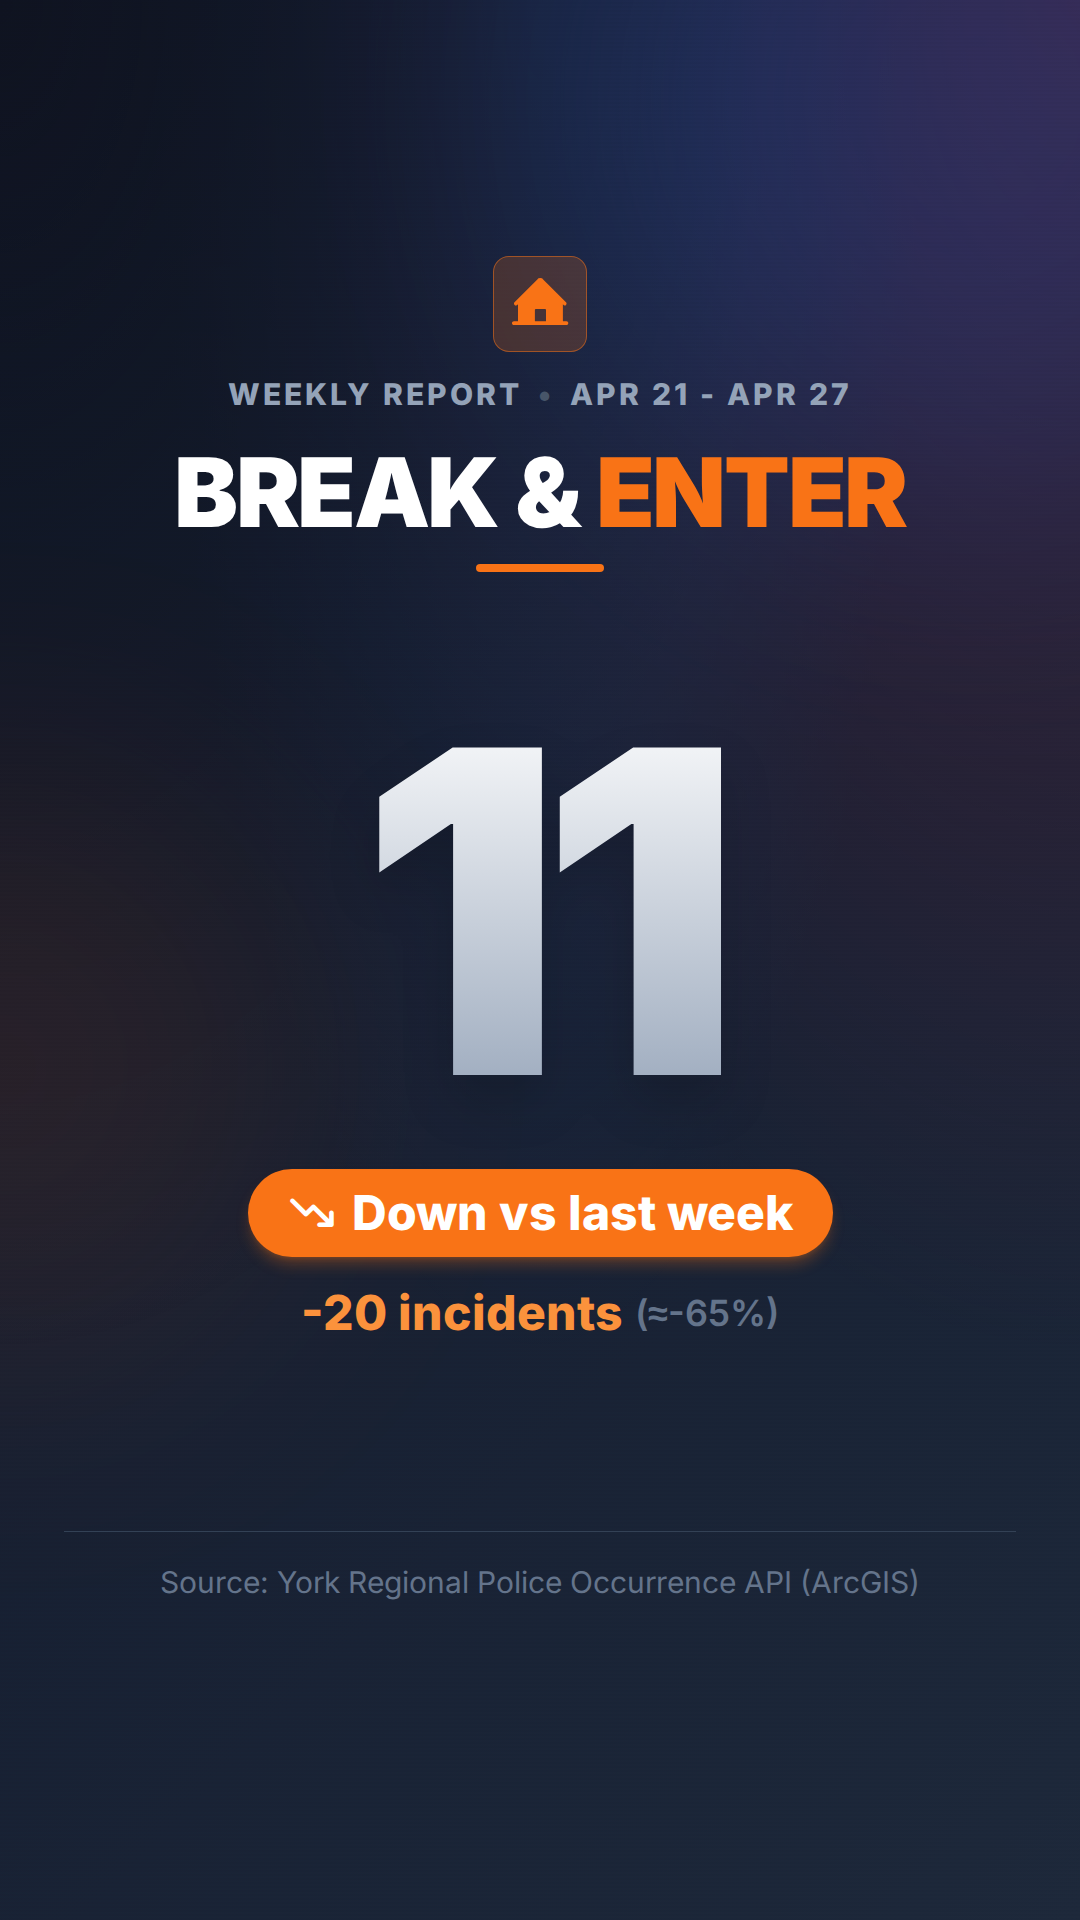
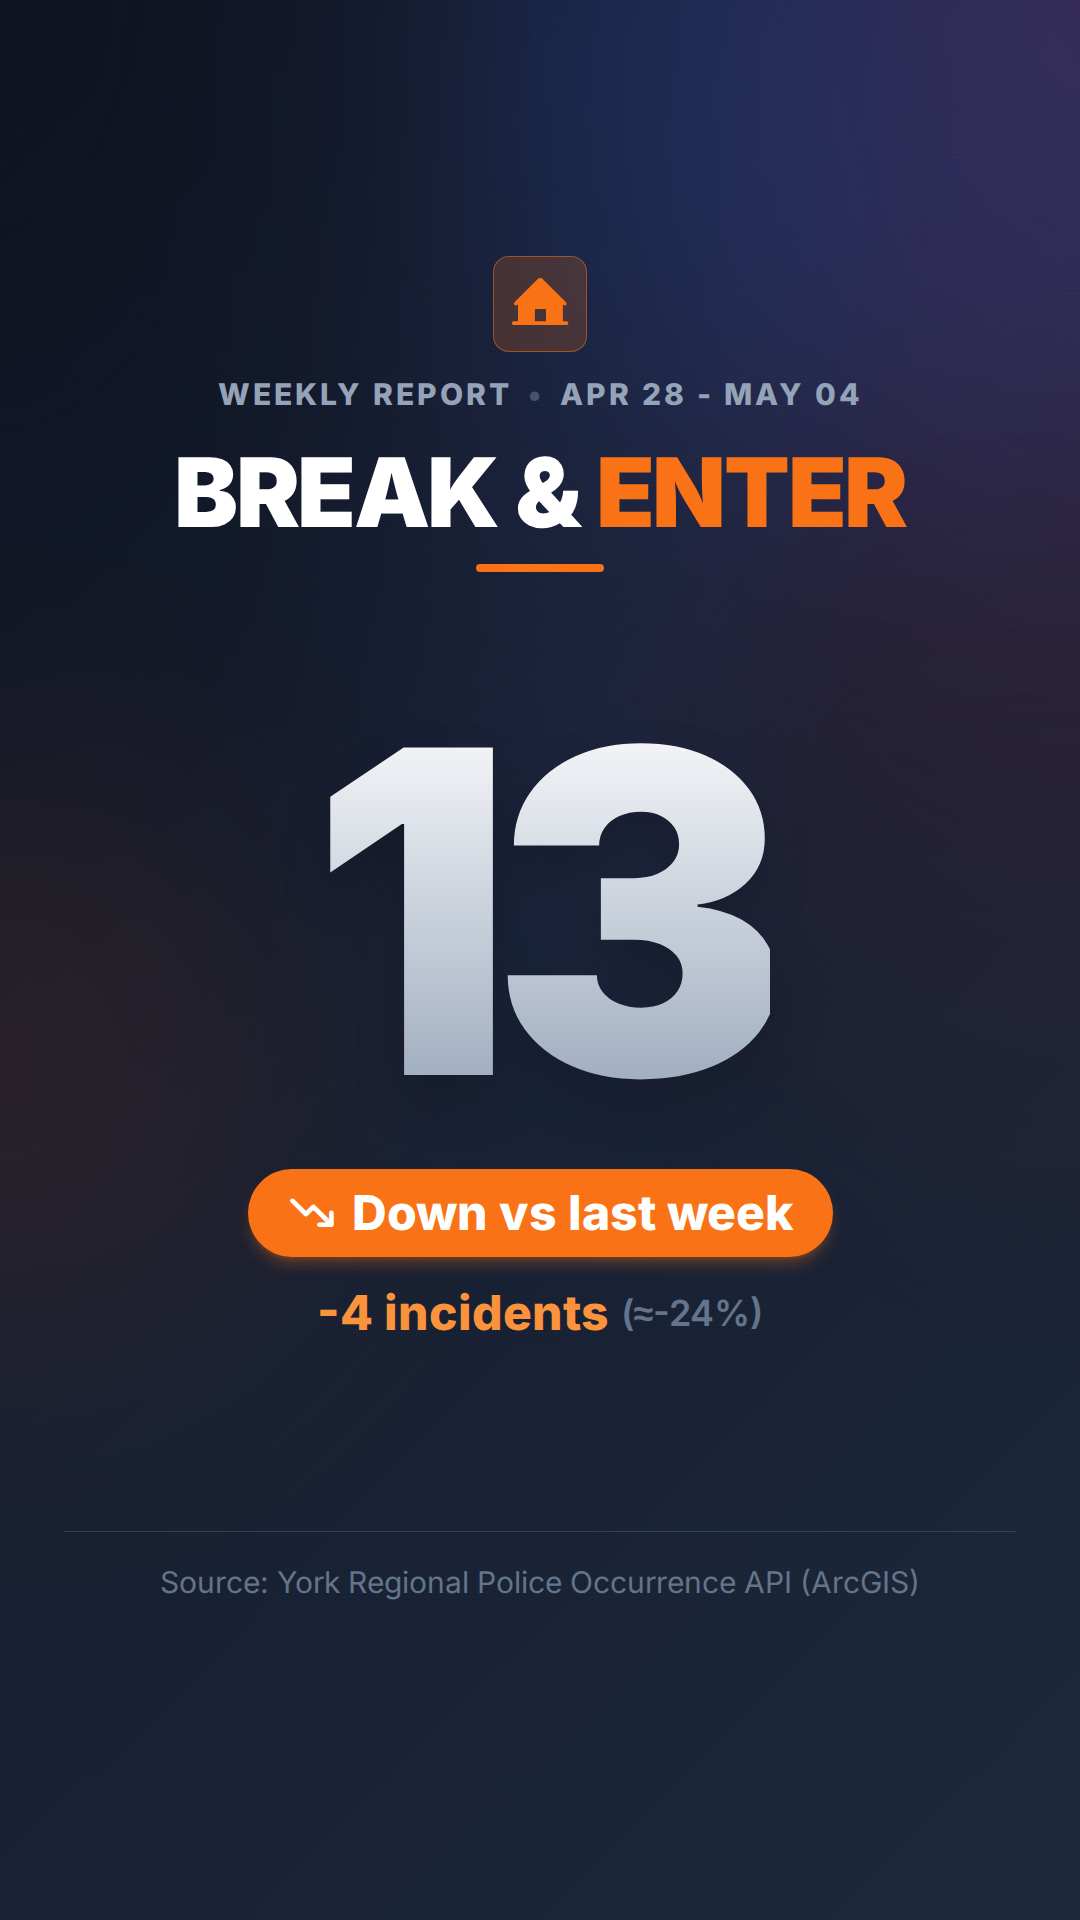
Update stats and screenshots 2026-05-04

diff --git a/templates/auto-theft.html b/templates/auto-theft.html
@@ -86,7 +86,7 @@
 <div class="flex items-center gap-4">
 <span class="text-3xl font-bold tracking-widest uppercase text-slate-400" id="report-label">Weekly Report</span>
 <span class="text-3xl font-bold tracking-widest uppercase text-slate-600">•</span>
-<span class="text-3xl font-bold tracking-widest uppercase text-slate-400" id="week-range">Apr 21 - Apr 27</span>
+<span class="text-3xl font-bold tracking-widest uppercase text-slate-400" id="week-range">Apr 28 - May 04</span>
 </div>
 </div>
 <!-- Big Title -->
@@ -102,19 +102,19 @@
 <!-- Number -->
 <div class="text-[450px] leading-none font-black tracking-tighter bg-clip-text text-transparent bg-gradient-to-b from-white to-slate-400 drop-shadow-2xl">
 <!-- Place this where the big number should show -->
-<span class="text-[450px] leading-none font-black tracking-tighter bg-clip-text text-transparent bg-gradient-to-b from-white to-slate-400 drop-shadow-2xl pr-12 pb-4" id="auto-theft-count">9</span>
+<span class="text-[450px] leading-none font-black tracking-tighter bg-clip-text text-transparent bg-gradient-to-b from-white to-slate-400 drop-shadow-2xl pr-12 pb-4" id="auto-theft-count">15</span>
 </div>
 <!-- Trend Info (Moved Inside) -->
 <div class="w-full flex flex-col items-center gap-8 mt-8">
 <!-- Trend Chip -->
 <div class="flex items-center gap-4 bg-red-500 text-white px-10 py-5 rounded-full shadow-lg shadow-red-500/30">
-<i class="ph-bold text-5xl ph-arrow-right ph-trend-down"></i>
-<span class="text-5xl font-bold" id="trend-label">Down vs last week</span>
+<i class="ph-bold text-5xl ph-arrow-right ph-trend-up"></i>
+<span class="text-5xl font-bold" id="trend-label">Up vs last week</span>
 </div>
 <!-- Small Line Info -->
 <div class="flex items-center gap-3">
-<span class="text-5xl font-bold text-red-400" id="delta-incidents">-11 incidents</span>
-<span class="text-4xl text-slate-500 font-semibold" id="delta-percent">(≈-55%)</span>
+<span class="text-5xl font-bold text-red-400" id="delta-incidents">+1 incidents</span>
+<span class="text-4xl text-slate-500 font-semibold" id="delta-percent">(≈+7%)</span>
 </div>
 </div>
 </div>

diff --git a/templates/assaults.html b/templates/assaults.html
@@ -87,7 +87,7 @@
 <div class="flex items-center gap-4">
 <span class="text-3xl font-bold tracking-widest uppercase text-slate-400">Weekly Report</span>
 <span class="text-3xl font-bold tracking-widest uppercase text-slate-600">•</span>
-<span class="text-3xl font-bold tracking-widest uppercase text-slate-400" id="week-range">Apr 21 - Apr 27</span>
+<span class="text-3xl font-bold tracking-widest uppercase text-slate-400" id="week-range">Apr 28 - May 04</span>
 </div>
 </div>
 <!-- Big Title -->
@@ -102,7 +102,7 @@
 <div class="p-20 flex flex-col items-center relative animate-pulse-slow min-w-[600px]">
 <!-- Number -->
 <!-- Added pr-12 (padding-right) and pb-4 to prevent clipping of the large glyph -->
-<div class="text-[450px] leading-none font-black tracking-tighter bg-clip-text text-transparent bg-gradient-to-b from-white to-slate-400 drop-shadow-2xl pr-12 pb-4" id="assaults-count">62</div>
+<div class="text-[450px] leading-none font-black tracking-tighter bg-clip-text text-transparent bg-gradient-to-b from-white to-slate-400 drop-shadow-2xl pr-12 pb-4" id="assaults-count">70</div>
 <!-- Trend Info (Moved Inside) -->
 <div class="w-full flex flex-col items-center gap-8 mt-8">
 <!-- Trend Chip (Violet Theme) -->
@@ -112,8 +112,8 @@
 </div>
 <!-- Small Line Info -->
 <div class="flex items-center gap-3">
-<span class="text-5xl font-bold text-violet-400" id="delta-incidents">-63 incidents</span>
-<span class="text-4xl text-slate-500 font-semibold" id="delta-percent">(≈-50%)</span>
+<span class="text-5xl font-bold text-violet-400" id="delta-incidents">-52 incidents</span>
+<span class="text-4xl text-slate-500 font-semibold" id="delta-percent">(≈-43%)</span>
 </div>
 </div>
 </div>

diff --git a/templates/break-enter.html b/templates/break-enter.html
@@ -87,7 +87,7 @@
 <div class="flex items-center gap-4">
 <span class="text-3xl font-bold tracking-widest uppercase text-slate-400" id="report-label">Weekly Report</span>
 <span class="text-3xl font-bold tracking-widest uppercase text-slate-600">•</span>
-<span class="text-3xl font-bold tracking-widest uppercase text-slate-400" id="week-range">Apr 21 - Apr 27</span>
+<span class="text-3xl font-bold tracking-widest uppercase text-slate-400" id="week-range">Apr 28 - May 04</span>
 </div>
 </div>
 <!-- Big Title -->
@@ -102,7 +102,7 @@
 <div class="p-20 flex flex-col items-center relative animate-pulse-slow min-w-[600px]">
 <!-- Number -->
 <div class="text-[450px] leading-none font-black tracking-tighter bg-clip-text text-transparent bg-gradient-to-b from-white to-slate-400 drop-shadow-2xl">
-<span id="break-enter-count">11</span>
+<span id="break-enter-count">13</span>
 </div>
 <!-- Trend Info (Moved Inside) -->
 <div class="w-full flex flex-col items-center gap-8 mt-8">
@@ -113,8 +113,8 @@
 </div>
 <!-- Small Line Info -->
 <div class="flex items-center gap-3">
-<span class="text-5xl font-bold text-orange-400" id="delta-incidents">-20 incidents</span>
-<span class="text-4xl text-slate-500 font-semibold" id="delta-percent">(≈-65%)</span>
+<span class="text-5xl font-bold text-orange-400" id="delta-incidents">-4 incidents</span>
+<span class="text-4xl text-slate-500 font-semibold" id="delta-percent">(≈-24%)</span>
 </div>
 </div>
 </div>
